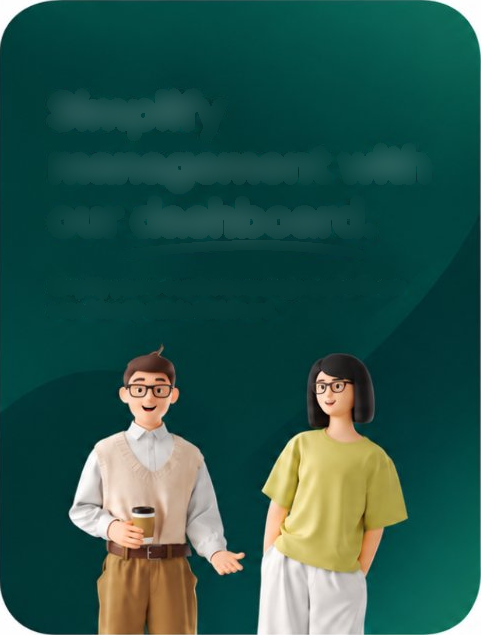
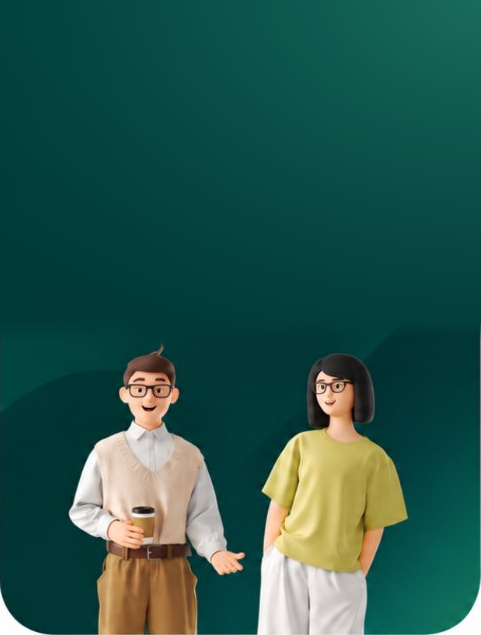
Perbarui background login menjadi putih polos dan perbaiki gambar panel hijau agar jernih tanpa blur

diff --git a/resources/views/dashboard.blade.php b/resources/views/dashboard.blade.php
@@ -4991,7 +4991,7 @@
                 <div style="max-width: 820px; margin: 0 auto; background: #ffffff; border-radius: 28px; padding: 14px; box-shadow: 0 16px 40px -10px rgba(0,0,0,0.08); border: 1px solid rgba(0,0,0,0.05); display: grid; grid-template-columns: 1fr 1fr; gap: 16px;">
                   
                   <!-- Left Promo Mockup -->
-                  <div style="background-color: #033f3c; background-image: url('{{ asset('assets/images/landing/login_left_card_clean.webp') }}'); background-repeat: no-repeat; background-size: cover; background-position: center bottom; border-radius: 20px; padding: 28px 24px 180px; position: relative; overflow: hidden; min-height: 380px;">
+                  <div style="background-color: #033f3c; background-image: url('{{ asset('assets/images/landing/login_left_card_clean.webp') }}?v={{ file_exists(public_path('assets/images/landing/login_left_card_clean.webp')) ? filemtime(public_path('assets/images/landing/login_left_card_clean.webp')) : time() }}'); background-repeat: no-repeat; background-size: cover; background-position: center bottom; border-radius: 20px; padding: 28px 24px 180px; position: relative; overflow: hidden; min-height: 380px;">
                     <div style="position: relative; z-index: 2;">
                       <div id="prevPromoHeadline" style="font-family: 'Outfit', sans-serif; font-size: 19px; font-weight: 800; color: #ffffff; line-height: 1.22; margin-bottom: 4px; white-space: pre-line;">
                         {{ $loginContent['promo_headline'] ?? "Simplify\nmanagement with\nour dashboard." }}

diff --git a/resources/views/auth/login.blade.php b/resources/views/auth/login.blade.php
@@ -29,7 +29,7 @@
     z-index: 999999999 !important;
   }
   html.f3d-login-intro-active body {
-    background: #f3f6f6 !important;
+    background: #ffffff !important;
   }
 
   :root {
@@ -50,7 +50,7 @@
     padding: 0;
     min-height: 100vh;
     font-family: 'Plus Jakarta Sans', -apple-system, BlinkMacSystemFont, 'Segoe UI', Roboto, sans-serif;
-    background: #f1f5f5;
+    background: #ffffff !important;
     color: #111827;
   }
 
@@ -62,7 +62,7 @@
     align-items: center;
     justify-content: center;
     padding: 32px 20px;
-    background: #f1f5f5;
+    background: #ffffff !important;
   }
 
   /* Two-Column Split Container */
@@ -76,7 +76,7 @@
     display: grid;
     grid-template-columns: 1.05fr 0.95fr;
     gap: 20px;
-    box-shadow: 0 24px 60px -12px rgba(3, 63, 60, 0.08), 0 0 1px 1px rgba(0, 0, 0, 0.04);
+    box-shadow: 0 20px 60px -15px rgba(0, 0, 0, 0.08), 0 0 0 1px rgba(0, 0, 0, 0.04);
     position: relative;
     z-index: 10;
   }
@@ -84,7 +84,7 @@
   /* Promotional Left Section */
   .login-promo-panel {
     background-color: #033f3c;
-    background-image: url('{{ asset("assets/images/landing/login_left_card_clean.webp") }}');
+    background-image: url('{{ asset("assets/images/landing/login_left_card_clean.webp") }}?v={{ file_exists(public_path("assets/images/landing/login_left_card_clean.webp")) ? filemtime(public_path("assets/images/landing/login_left_card_clean.webp")) : time() }}');
     background-repeat: no-repeat;
     background-size: cover;
     background-position: center bottom;
